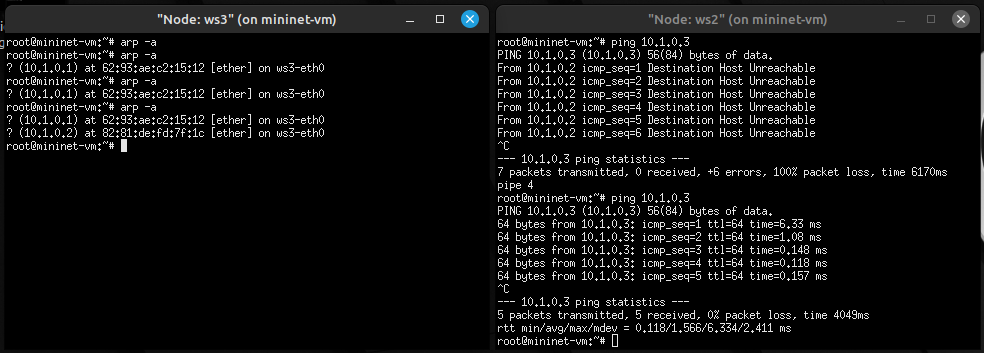
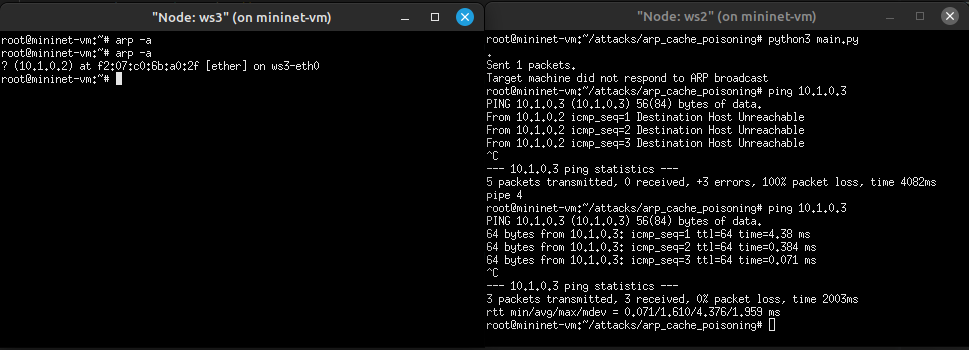
update report

Changed region(s): [[0.0, 0.0, 1.0, 1.0], [0.9907, 0.1429, 1.0, 0.6857], [0.9907, 0.7429, 1.0, 1.0]]

diff --git a/README.md b/README.md
@@ -600,6 +600,12 @@ listening on ws2-eth0, link-type EN10MB (Ethernet), capture size 262144 bytes
 
 ### Protection on ARP
 
+Before enabling the protection, we need to clear the corrupted ARP table of the victim (ws3) and more specifically, the corrupted address of the router. This can be done by using the following command : 
+```
+arp -d 10.1.0.1
+arp -d 10.1.0.2
+```
+
 To launch the protection, use the following command in mininet : `source protections/arp_cache_poisoning/commands_arp_cache_poisoning.py`.
 
 To be honest, implementing a good protection for this attack was really tough. We considered several solutions including : 
@@ -633,22 +639,12 @@ table arp filter {
 }
 ```
 
-**Remark** : When trying to use the command `pingall` to verify network connectivity, we found something interesting. The ping from `r1` to `ws3` was not working as intended : 
-
-```
-r1 -> dns ftp http X ntp r2 ws2 X 
-```
-
-The reason is that the router `r1` (which at first do not know what is the IP address of `ws3`) does **multiple** ARP requests, which results in `r1` being blacklisted.
-
-To ensure a successful ping, it is necessary to wait for **one minute** before attempting the ping.
-
 
 ### Validation of the protection
 
 In our scenario, `ws2` attacks `ws3`.
 
-After executing the attack, we can see that the ARP table of `ws3` has been modified and only the MAC address of `r1` has been added. Therefore, whenever the attacker tries to send ARP packets, it will be blocked for 1 minute.
+After executing the attack, we can see that the ARP table of `ws3` is still empty. Therefore, whenever the attacker tries to send ARP packets, it will be blocked for 1 minute.
 
 ![ARP_cache_poisoning](/img/validation_arp/validation_arp_attack.png)
 
@@ -659,6 +655,9 @@ When trying to ping `ws3` from `ws2` before the 1 minute timeout, we can see tha
 After 1 minute, `ws2` is able to ping `ws3` again (the MAC address of `ws2` will be added to the arp table of `ws3`).
 
 ![ARP_cache_poisoning](/img/validation_arp/validation_arp_after_rate_limit.png)
+
+
+To confirm that the network connectivity was functioning as expected, the `pingall` command was executed **after one minute**. The output matched the basic enterprise network protection, indicating that the network connectivity was not affected by the protection.
 
 
 [comment]: <> (###########################################)
